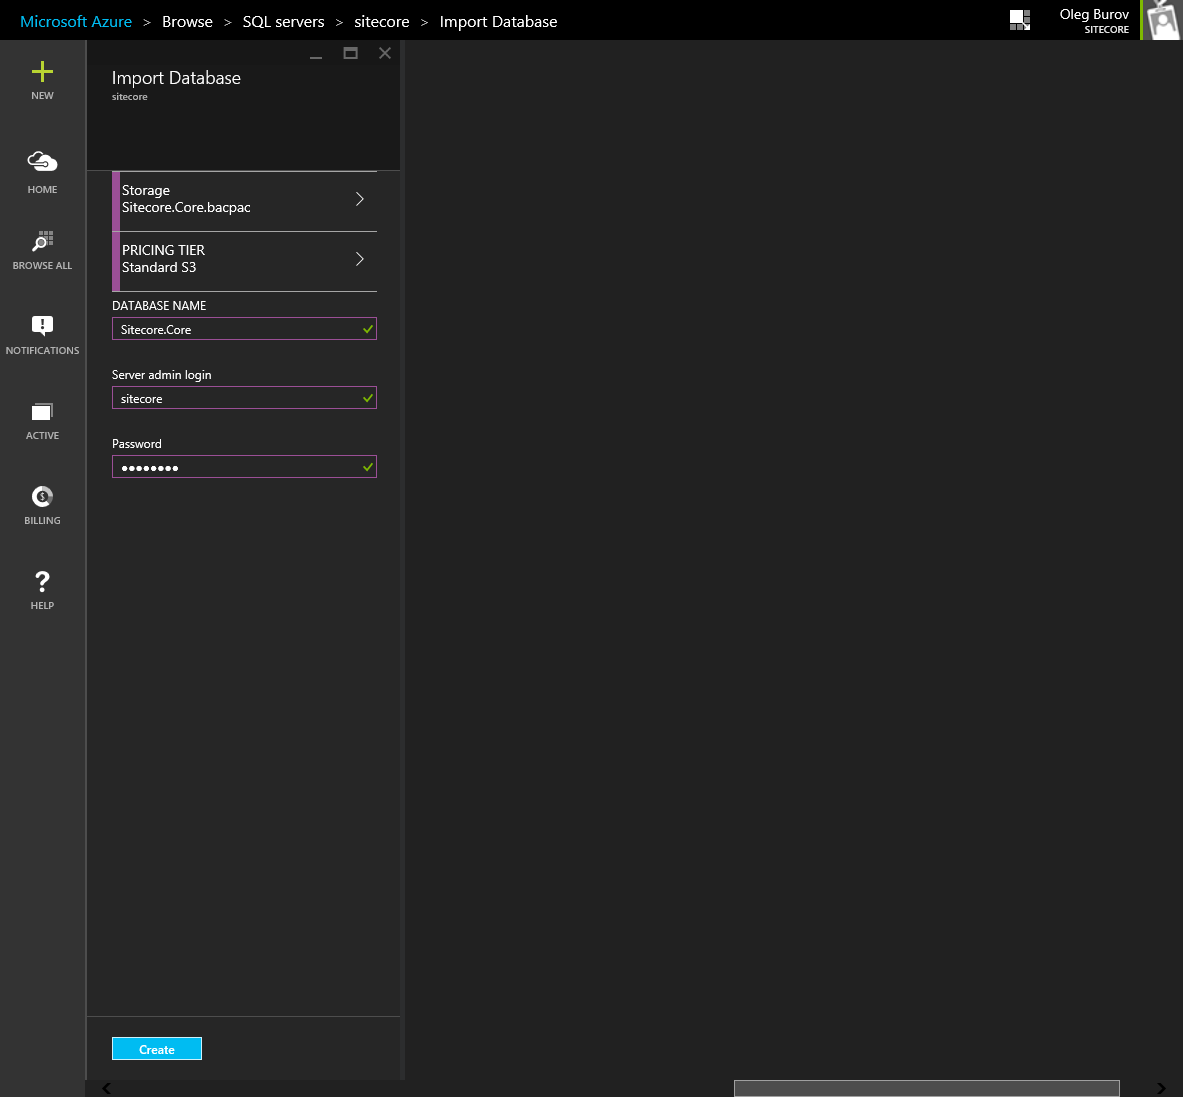
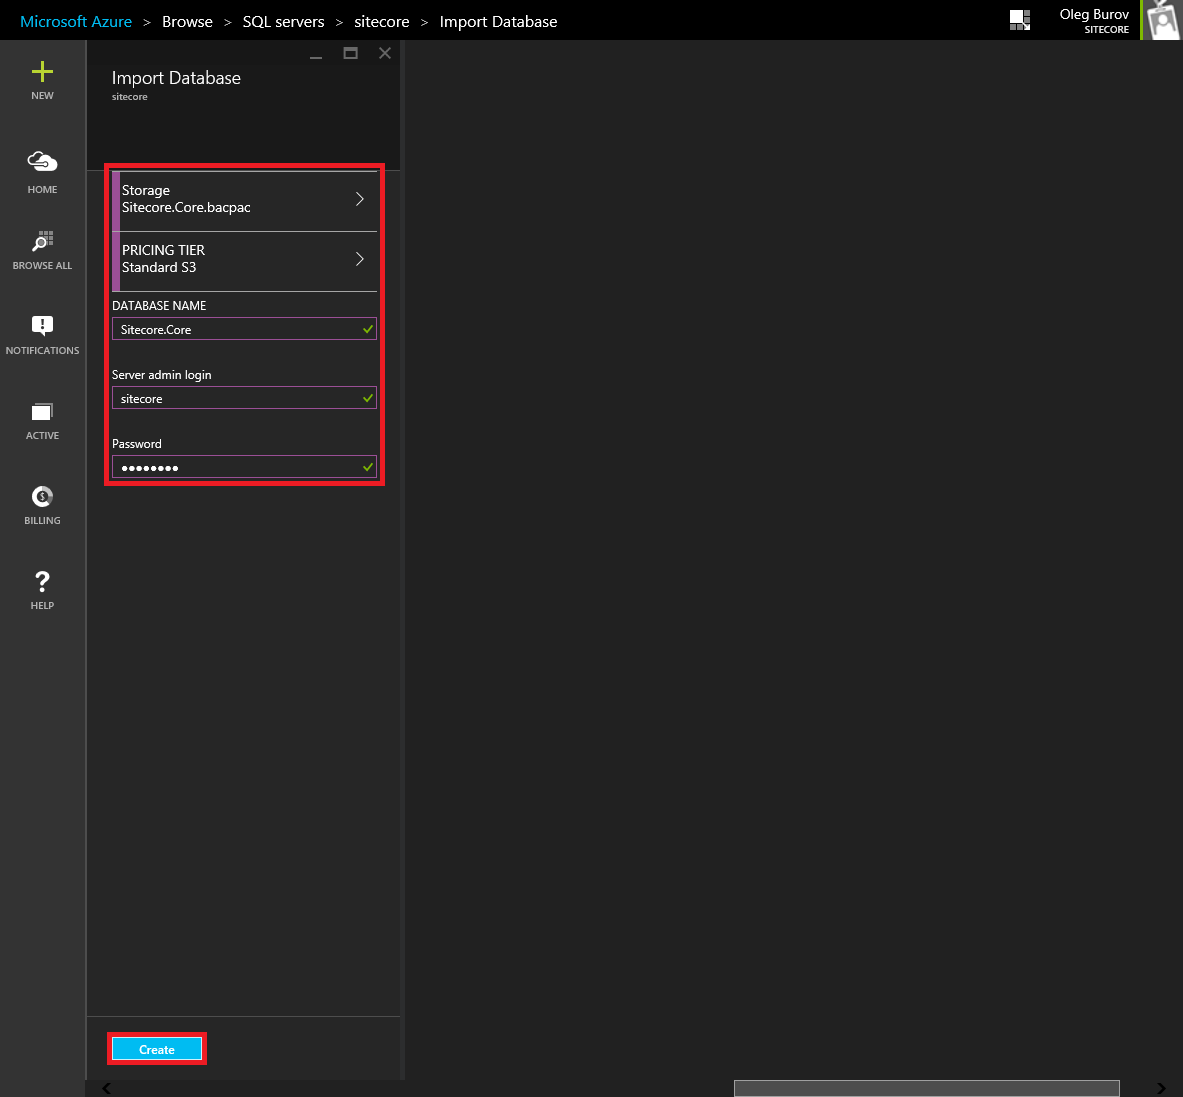
How to deploy Sitecore databases to Azure SQL Database.
Added a note to step #19.
Changed the name of Session database in the SQL Azure [Session].sql
script.
Fixed the list in the 'Download Options' section.
Added highlighting to the image in step #24.

Changed region(s): [[0.0913, 0.124, 0.3347, 0.4649], [0.0609, 0.155, 0.0913, 0.4339], [0.0913, 0.9298, 0.1826, 0.9918]]

diff --git a/articles/how-to-deploy-sitecore-databases-to-azure-sql-database.md b/articles/how-to-deploy-sitecore-databases-to-azure-sql-database.md
@@ -75,11 +75,13 @@ The recommended approach to deploy Sitecore databases to the [Microsoft Azure SQ
 
   ![](./media/how-to-deploy-sitecore-databases-to-azure-sql-database/AzurePortal-SQL-05.png)
 
-19. In the **Empty SQL Database** blade, click the **Delete** button.
+19. In the **Empty SQL Database** blade, click the **Delete** button in the top menu.
 
   ![](./media/how-to-deploy-sitecore-databases-to-azure-sql-database/AzurePortal-SQL-06.png)
+  
+  > **Note:** The `Empty` SQL Database is created with a SQL Server instance. However, it is not needed. 
 
-20. In the **Jumpbar**, click the **Browser** button and select the **SQL servers** from the list. The **Browser** and **SQL servers** blades appear.
+20. In the **Jumpbar**, click the **Browser All** button and select the **SQL servers** from the list. The **SQL servers** blade appears.
 
   ![](./media/how-to-deploy-sitecore-databases-to-azure-sql-database/AzurePortal-SQL-07.png)
 
@@ -104,19 +106,23 @@ The recommended approach to deploy Sitecore databases to the [Microsoft Azure SQ
 ##Download Options
 
 Exported Sitecore databases as `*.bacpac` files:
-- [Sitecore72.Core.bacpac](./media/how-to-deploy-sitecore-databases-to-azure-sql-database/Sitecore72.Core.bacpac)
-- [Sitecore72.Master.bacpac](./media/how-to-deploy-sitecore-databases-to-azure-sql-database/Sitecore72.Master.bacpac)
-- [Sitecore72.Web.bacpac](./media/how-to-deploy-sitecore-databases-to-azure-sql-database/Sitecore72.Web.bacpac)
-- [Sitecore72.Analytics.bacpac](./media/how-to-deploy-sitecore-databases-to-azure-sql-database/Sitecore72.Analytics.bacpac)
 
-- [Sitecore75.Core.bacpac](./media/how-to-deploy-sitecore-databases-to-azure-sql-database/Sitecore75.Core.bacpac)
-- [Sitecore75.Master.bacpac](./media/how-to-deploy-sitecore-databases-to-azure-sql-database/Sitecore75.Master.bacpac)
-- [Sitecore75.Web.bacpac](./media/how-to-deploy-sitecore-databases-to-azure-sql-database/Sitecore75.Web.bacpac)
-- [Sitecore75.Reporting.bacpac](./media/how-to-deploy-sitecore-databases-to-azure-sql-database/Sitecore75.Reporting.bacpac)
-- [Sitecore75.Session.bacpac](./media/how-to-deploy-sitecore-databases-to-azure-sql-database/Sitecore75.Session.bacpac)
+- Sitecore CMS and DMS 7.2:
+  + [Sitecore72.Core.bacpac](./media/how-to-deploy-sitecore-databases-to-azure-sql-database/Sitecore72.Core.bacpac)
+  + [Sitecore72.Master.bacpac](./media/how-to-deploy-sitecore-databases-to-azure-sql-database/Sitecore72.Master.bacpac)
+  + [Sitecore72.Web.bacpac](./media/how-to-deploy-sitecore-databases-to-azure-sql-database/Sitecore72.Web.bacpac)
+  + [Sitecore72.Analytics.bacpac](./media/how-to-deploy-sitecore-databases-to-azure-sql-database/Sitecore72.Analytics.bacpac)
 
-- [Sitecore80.Core.bacpac](./media/how-to-deploy-sitecore-databases-to-azure-sql-database/Sitecore80.Core.bacpac)
-- [Sitecore80.Master.bacpac](./media/how-to-deploy-sitecore-databases-to-azure-sql-database/Sitecore80.Master.bacpac)
-- [Sitecore80.Web.bacpac](./media/how-to-deploy-sitecore-databases-to-azure-sql-database/Sitecore80.Web.bacpac)
-- [Sitecore80.Reporting.bacpac](./media/how-to-deploy-sitecore-databases-to-azure-sql-database/Sitecore80.Reporting.bacpac)
-- [Sitecore80.Session.bacpac](./media/how-to-deploy-sitecore-databases-to-azure-sql-database/Sitecore80.Session.bacpac)
+- Sitecore XP 7.5:
+  + [Sitecore75.Core.bacpac](./media/how-to-deploy-sitecore-databases-to-azure-sql-database/Sitecore75.Core.bacpac)
+  + [Sitecore75.Master.bacpac](./media/how-to-deploy-sitecore-databases-to-azure-sql-database/Sitecore75.Master.bacpac)
+  + [Sitecore75.Web.bacpac](./media/how-to-deploy-sitecore-databases-to-azure-sql-database/Sitecore75.Web.bacpac)
+  + [Sitecore75.Reporting.bacpac](./media/how-to-deploy-sitecore-databases-to-azure-sql-database/Sitecore75.Reporting.bacpac)
+  + [Sitecore75.Session.bacpac](./media/how-to-deploy-sitecore-databases-to-azure-sql-database/Sitecore75.Session.bacpac)
+
+- Sitecore XP 8.0:
+  + [Sitecore80.Core.bacpac](./media/how-to-deploy-sitecore-databases-to-azure-sql-database/Sitecore80.Core.bacpac)
+  + [Sitecore80.Master.bacpac](./media/how-to-deploy-sitecore-databases-to-azure-sql-database/Sitecore80.Master.bacpac)
+  + [Sitecore80.Web.bacpac](./media/how-to-deploy-sitecore-databases-to-azure-sql-database/Sitecore80.Web.bacpac)
+  + [Sitecore80.Reporting.bacpac](./media/how-to-deploy-sitecore-databases-to-azure-sql-database/Sitecore80.Reporting.bacpac)
+  + [Sitecore80.Session.bacpac](./media/how-to-deploy-sitecore-databases-to-azure-sql-database/Sitecore80.Session.bacpac)
